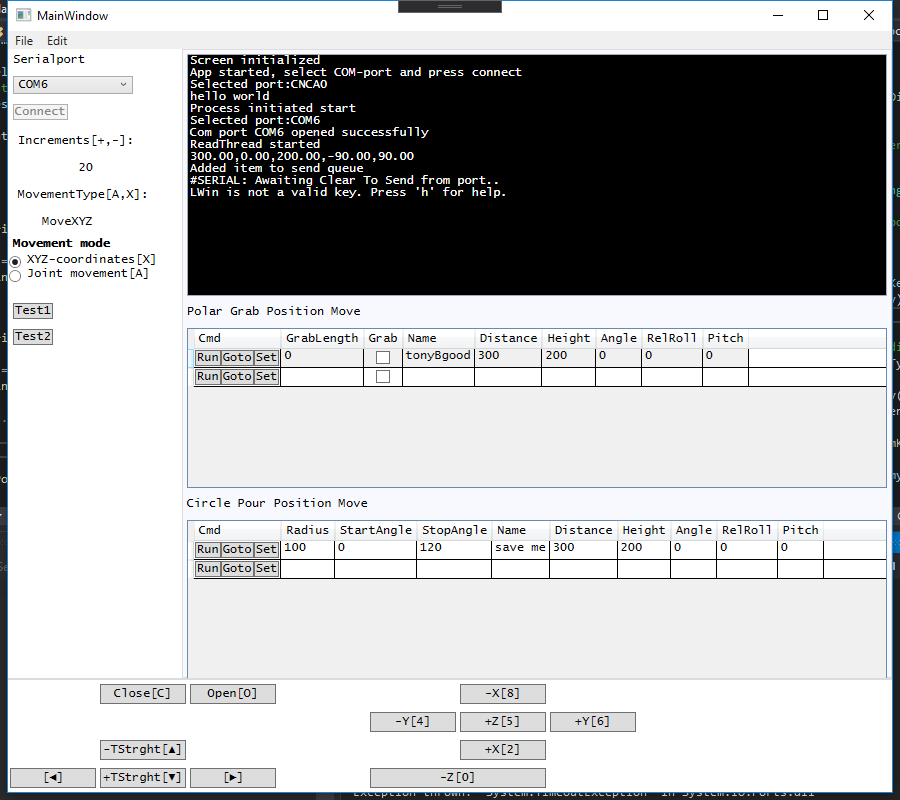
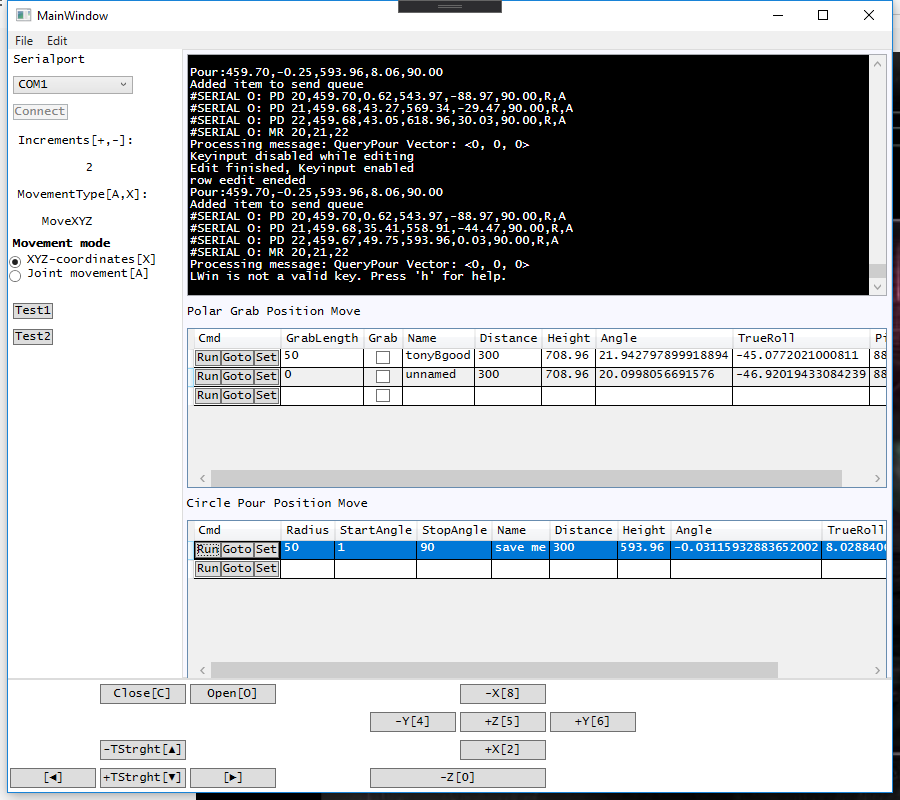
Fixed bugg when pressing 'set' on empty datagridrow. Fixed sign-error in Circle-position calculation. Fixed bugg with angle not being updated(datagrid bindnings)

diff --git a/src/robot/PolarPosition.cs b/src/robot/PolarPosition.cs
@@ -26,9 +26,10 @@ namespace robot_teachbox
             x = Double.Parse(elements[0]);
             y = Double.Parse(elements[1]);
             z =  Double.Parse(elements[2]);
-            Pitch = Double.Parse(elements[3]);
-            RelRoll = Double.Parse(elements[4]);
-
+            _angle = GetCalculatedAngle();
+            TrueRoll = Double.Parse(elements[3])+_angle;
+            Pitch = Double.Parse(elements[4]);
+            
         }
 
         private double _distance;
@@ -60,6 +61,11 @@ namespace robot_teachbox
             return Math.Atan(y / x) * 360 / (Math.PI * 2);
         }
 
+        private double GetCalculatedAngle(double x, double y)
+        {
+            return Math.Atan(y / x) * 360 / (Math.PI * 2);
+        }
+
         public void UpdateInternalXY()
         {
             SetPolarPos(Distance, Angle);
@@ -83,7 +89,7 @@ namespace robot_teachbox
             }
         }
         //roll-joint relative the robots own position. Normally it relates to global position which is bad for pouring use case.
-        public double RelRoll { get; set; }
+        public double TrueRoll { get; set; }
         public double Pitch { get; set; }
 
         public double x;
@@ -121,12 +127,15 @@ namespace robot_teachbox
                 SetPolarPos(_distance,_angle);
                 Height = GetDouble("height in mm",100,600,400);
                 Pitch = GetDouble("pitch angle",-90,90,0);
-                RelRoll = GetDouble("roll angle",-120,120,0);  
+                TrueRoll = GetDouble("roll angle",-120,120,0);  
 
         }
 
+        //from my datamodel to the melfa.
         public string ToMelfaPosString(){
-                string output = $"{x:F2},{y:F2},{z:F2},{-Angle-90:F2},{Pitch+90:F2}"; //Angle thing makes the origin for robot and not relative global(rotating with waist! dont want that)
+            var whereRoll = TrueRoll -_angle;
+                                                        //Roll        pitch
+                string output = $"{x:F2},{y:F2},{z:F2},{whereRoll:F2},{Pitch:F2}"; //Angle thing makes the origin for robot and not relative global(rotating with waist! dont want that)
                 return output;
         }
 
@@ -135,8 +144,9 @@ namespace robot_teachbox
             x = rowPos.x;
             y = rowPos.y;
             z = rowPos.z;
+            _angle = GetCalculatedAngle();
             Pitch = rowPos.Pitch;
-            RelRoll = rowPos.RelRoll;
+            TrueRoll = rowPos.TrueRoll;
         }
     }
 }

diff --git a/MainWindow.xaml.cs b/MainWindow.xaml.cs
@@ -46,7 +46,6 @@ namespace robot_teachbox
             CultureInfo ci = CultureInfo.GetCultureInfo(culture);
             Thread.CurrentThread.CurrentCulture = ci;
             Console.SetOut(new view.ControlWriter(textBox));
-            Logger.Instance.Log("hello world");
             InitializeRobotObjects();
             InitializeControls();
 
@@ -354,13 +353,18 @@ namespace robot_teachbox
         //For test
         private void testButton1_Click(object sender, RoutedEventArgs e)
         {
-            LoadPositionFromFile();
+            Type  t = dataGrid.ItemsSource.GetType().GetGenericArguments().Single();
+            var inst = Activator.CreateInstance(t);
+            Console.WriteLine(inst.ToString());
         }
 
         //for test
         private void testButton2_Click(object sender, RoutedEventArgs e)
         {
-            SavePositionsToFile();
+            var rows = this.dataGrid.SelectedCells;
+            var pos = rows.ElementAt(0).Item as PositionGrab;
+
+            Console.WriteLine("melfa:"+pos.ToMelfaPosString());
         }
 
         private void exitClicked(object sender, RoutedEventArgs e)
@@ -416,7 +420,16 @@ namespace robot_teachbox
                 var rows = grid.SelectedCells;
                 var robotPosNow = RobotSend.GetPosition();
                 var rowPos = rows.ElementAt(0).Item as PolarPosition;
-                rowPos.UpdatePosition(robotPosNow);
+                if (rowPos == null)  //
+                {
+                    Type t = dataGrid.ItemsSource.GetType().GetGenericArguments().Single();
+                    var position = Activator.CreateInstance(t) as PolarPosition;
+                    position.UpdatePosition(robotPosNow);
+                    grid.Items.Add(position);
+                } else
+                {
+                    rowPos.UpdatePosition(robotPosNow);
+                }
             };
 
             var btn = sender as Button;

diff --git a/src/robot/Circle3D.cs b/src/robot/Circle3D.cs
@@ -20,10 +20,11 @@ namespace robot_teachbox
             //angle 0 = -90 in the unit circle representation.
             
             var tz = z+Radius*Math.Sin(((angle-90)/360)*2*Math.PI);
-            var tx = x+Radius*Math.Sin(2*Math.PI*Angle/360)*Math.Cos(2*Math.PI*(angle-90)/360);
+            var tx = x-Radius*Math.Sin(2*Math.PI*Angle/360)*Math.Cos(2*Math.PI*(angle-90)/360);
             var ty = y+Radius*Math.Cos(2*Math.PI*Angle/360)*Math.Cos(2*Math.PI*(angle-90)/360);
-            
+
             string output = $"{tx:F2},{ty:F2},{tz:F2},{-Angle+angle-90:F2},{90:F2}"; //Angle thing makes the origin for robot and not relative global(rotating with waist! dont want that)
+
             return output;
         }
 
